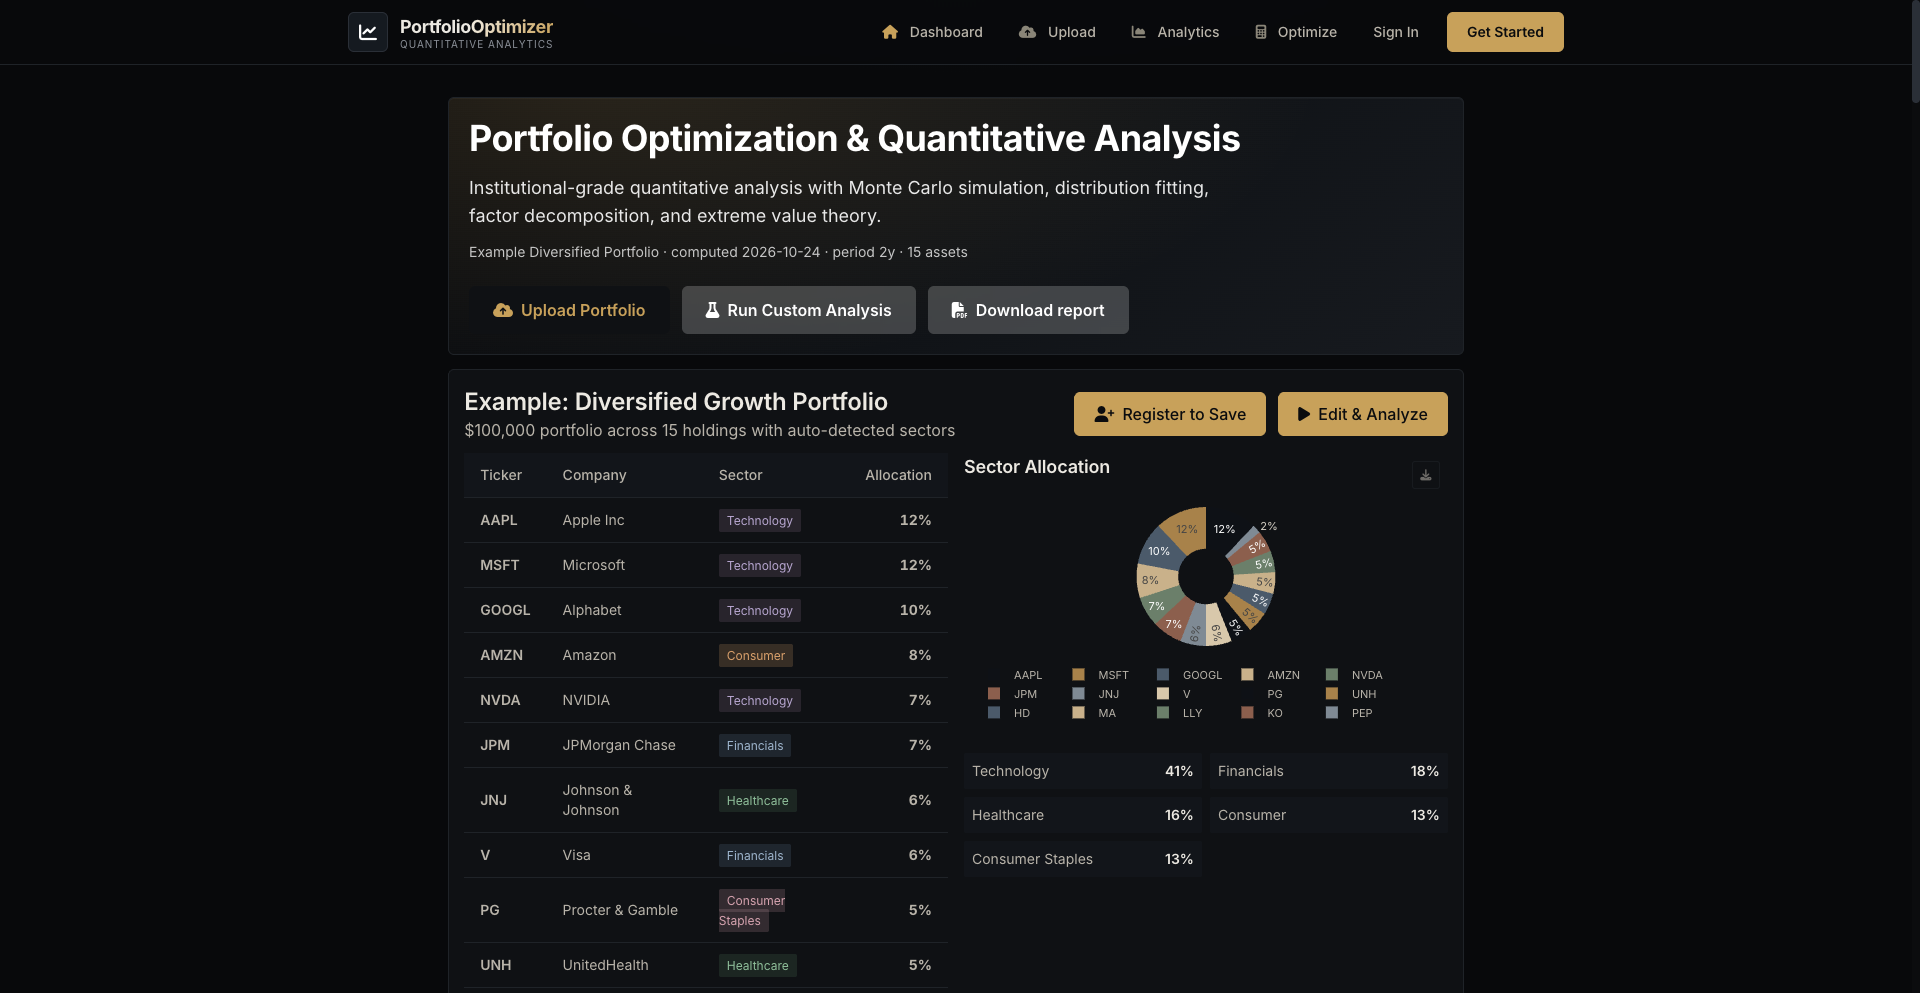
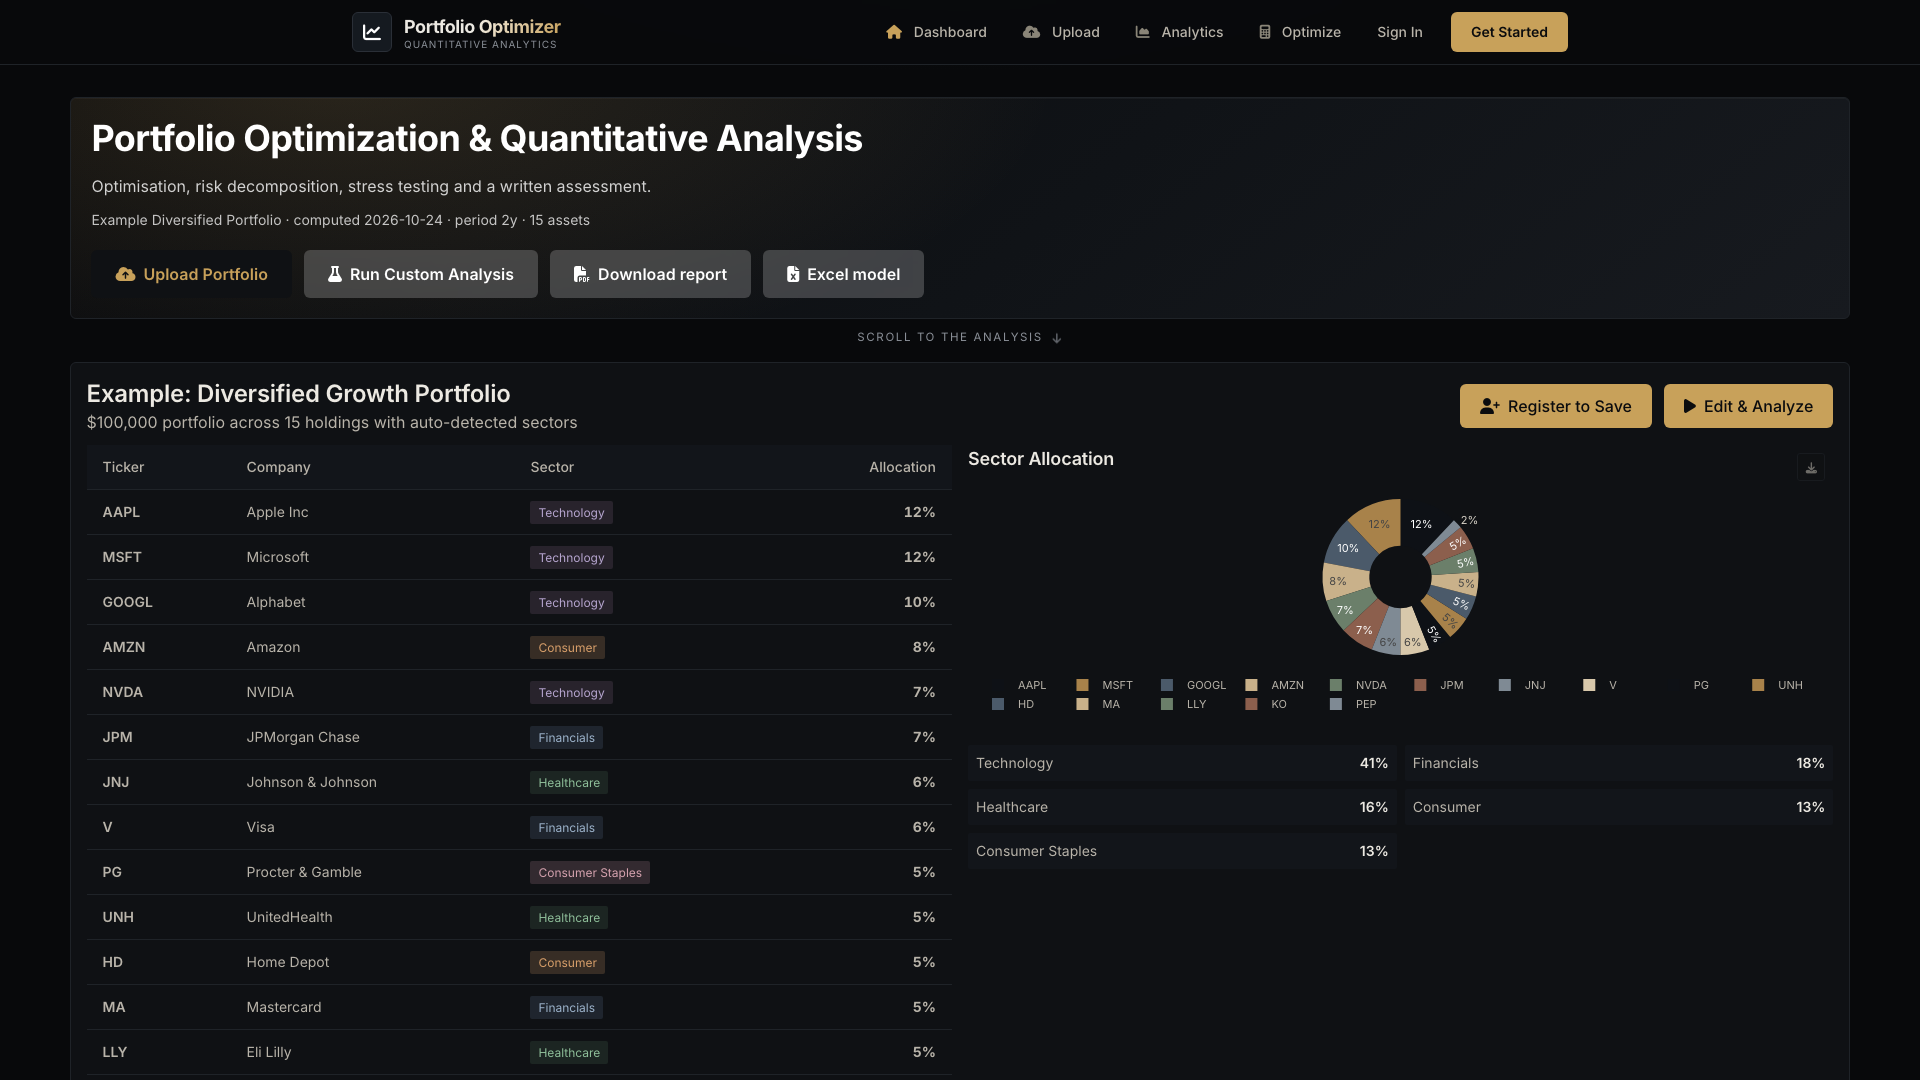
docs: refreshed dashboard screenshot

diff --git a/README.md b/README.md
@@ -92,7 +92,7 @@ The figures below are the same images embedded in the PDF export. They are rende
 | ![Rolling statistics](docs/charts/rolling_stats.png) | |
 | *Figure 13.* Rolling mean with 95% band, standard deviation and Sharpe ratio. | |
 
-The complete three-page export is available as **[Portfolio-Optimizer-Report.pdf](docs/Portfolio-Optimizer-Report.pdf)**.
+The complete three-page export is available as **[Portfolio-Optimizer-Report.pdf](docs/Portfolio-Optimizer-Report.pdf)**, and the workbook as **[portfolio-analysis-model.xlsx](docs/portfolio-analysis-model.xlsx)**.
 
 ---
 
